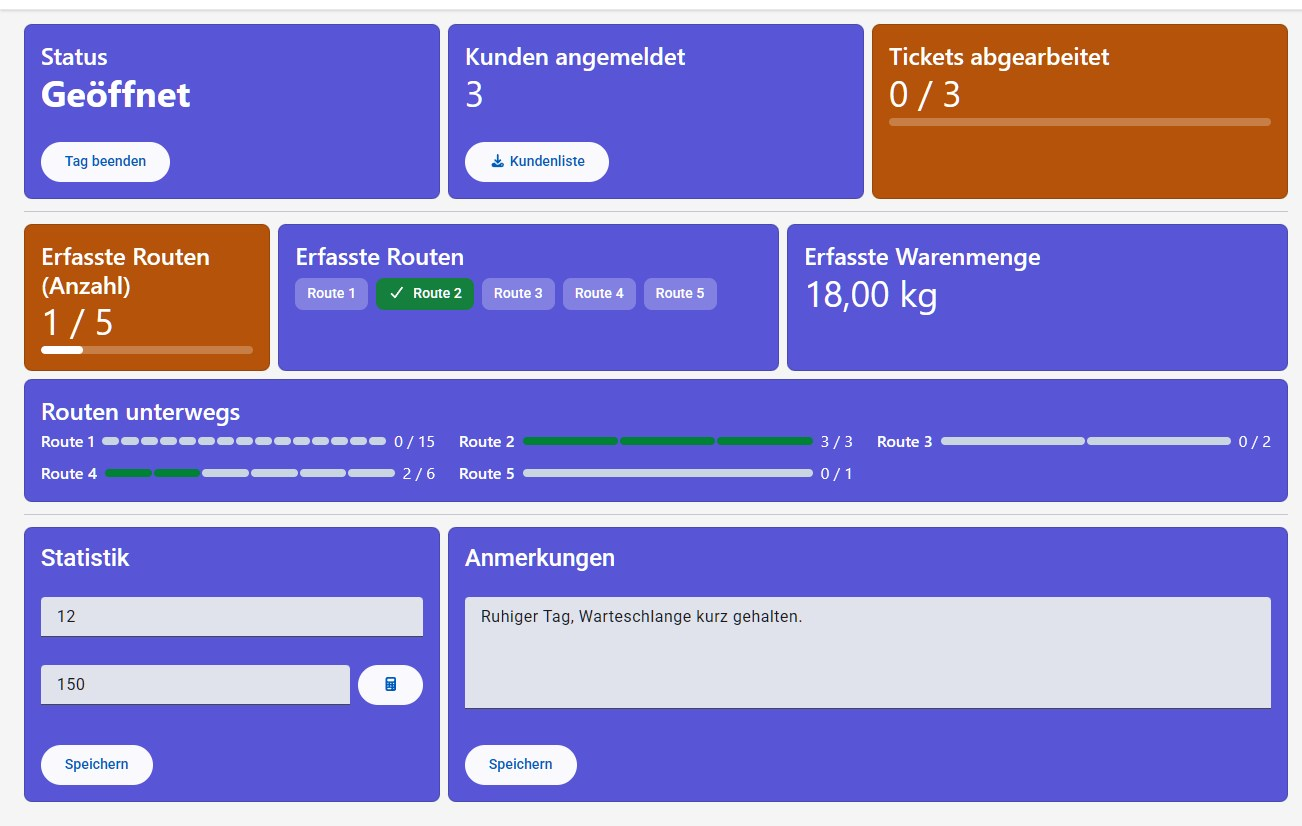
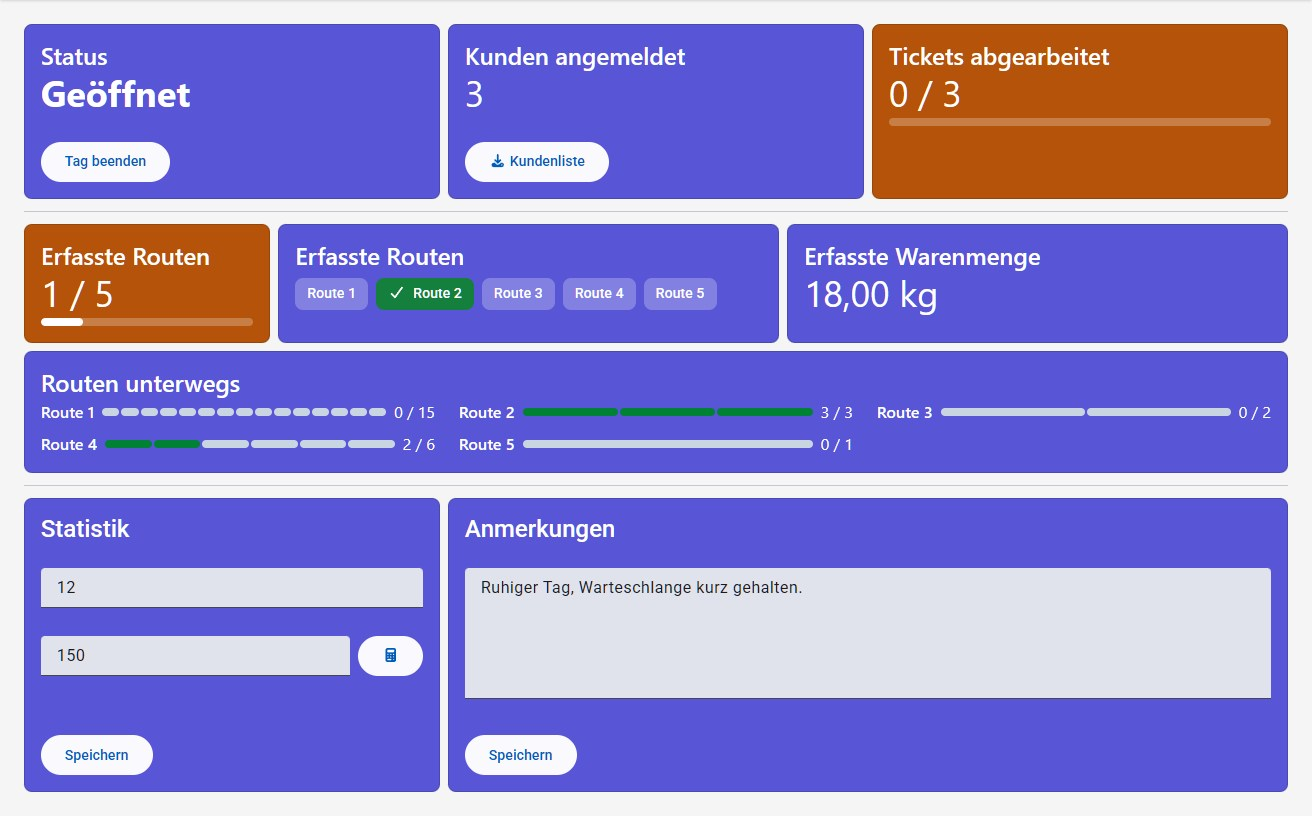
refactor(dashboard): rename "Erfasste Routen (Anzahl)" panel to "Erfasste Routen"

Changed region(s): [[0.0, 0.0306, 1.0, 0.9804], [0.0307, 0.0613, 0.1536, 0.1532], [0.0307, 0.9191, 0.1229, 0.9498]]

diff --git a/frontend/src/main/webapp/src/app/modules/dashboard/components/recorded-food-collections/recorded-food-collections.component.html b/frontend/src/main/webapp/src/app/modules/dashboard/components/recorded-food-collections/recorded-food-collections.component.html
@@ -1,6 +1,6 @@
 <mat-card class="h-full mat-card-{{ panelColor() }}" testid="recorded-food-collections-panel">
   <mat-card-content class="!p-4">
-    <h2 class="tafel-h4 mb-1">Erfasste Routen (Anzahl)</h2>
+    <h2 class="tafel-h4 mb-1">Erfasste Routen</h2>
     @if (countRecorded() !== null && countTotal() !== null) {
       <div testid="recorded-food-collections-count" class="text-4xl leading-none">{{ countRecorded() }} / {{ countTotal() }}</div>
     } @else {

diff --git a/docs/userguide/README.md b/docs/userguide/README.md
@@ -193,8 +193,7 @@ Die Übersicht ist die Startseite und zeigt den aktuellen Status des Ausgabetags
 - **Status**: Zeigt an, ob der Ausgabetag "Geöffnet" oder "Geschlossen" ist. Mit **Tag starten** wird eine neue Ausgabe begonnen, mit **Tag beenden** wird sie abgeschlossen (dabei werden u. a. die Mitarbeiterzahl und die genutzten Notschlafstellen abgefragt).
 - **Kunden angemeldet**: Anzahl der für den heutigen Tag angemeldeten Kunden. Über **Kundenliste** kann die Liste der angemeldeten Kunden heruntergeladen werden.
 - **Tickets abgearbeitet**: Fortschritt der Ticket-Bearbeitung (verarbeitete / gesamt) als Zahl und als Balken darunter.
-- **Erfasste Routen (Anzahl)**: Fortschritt der Warenerfassung aus der Logistik als Zahl und Balken (siehe [Logistik](logistik.md)).
-- **Erfasste Routen**: Alle heute noch zu fahrenden Routen als kleine Kacheln (Chips) – bereits vollständig erfasste sind grün mit Häkchen markiert, die übrigen sind neutral. So ist auf einen Blick erkennbar, welche Routen noch fehlen, statt die erfassten gegen die Gesamtzahl abzuzählen.
+- **Erfasste Routen**: Fortschritt der Warenerfassung aus der Logistik (siehe [Logistik](logistik.md)) – als Zahl mit Balken sowie daneben alle heute zu fahrenden Routen als kleine Kacheln (Chips). Bereits vollständig erfasste Routen sind grün mit Häkchen markiert, die übrigen sind neutral. So ist auf einen Blick erkennbar, welche Routen noch fehlen, statt die erfassten gegen die Gesamtzahl abzuzählen.
 - **Erfasste Warenmenge**: Gesamtgewicht der bisher erfassten Warenmengen.
 - **Routen unterwegs**: Zeigt je Route, wie viele Stopps die Fahrer heute bereits abgehakt haben (z. B. "2 / 7"). Der Balken daneben besteht aus einem Abschnitt je Stopp, die erledigten sind grün — so ist auf einen Blick erkennbar, wie viele Stopps eine Route überhaupt hat und wie viele davon schon hinter ihr liegen. Grundlage ist das [Routen-Navi](logistik.md#routen-navi); die Anzeige aktualisiert sich automatisch, sobald unterwegs ein Stopp abgehakt wird — so ist in der Zentrale ohne Anruf ersichtlich, wo eine Route gerade steht. Der Bereich erscheint erst, sobald an diesem Tag der erste Stopp abgehakt wurde: Wird das Routen-Navi nicht verwendet, bleibt er ganz aus. Ab dann werden alle Routen angeführt, auch die noch bei "0 / 15" stehenden; Routen ohne hinterlegte Stopps werden nicht angeführt.
 - **Statistik**: Eingabe der Mitarbeiteranzahl und der Personen in den ausgewählten Notschlafstellen für den Tagesreport. Die Anzahl der Personen in Notschlafstellen wird über den Rechner-Button neben dem Feld ermittelt, indem die genutzten Notschlafstellen ausgewählt werden.
